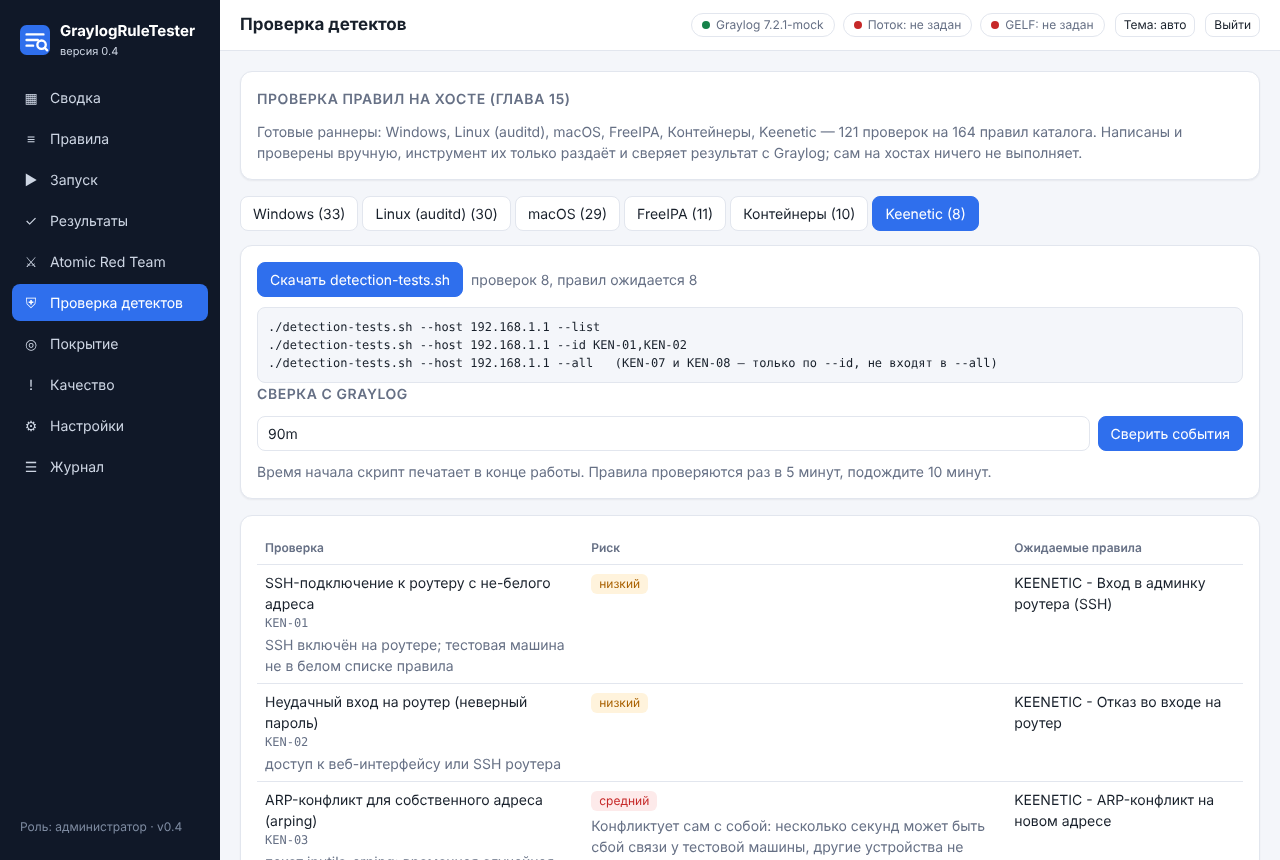
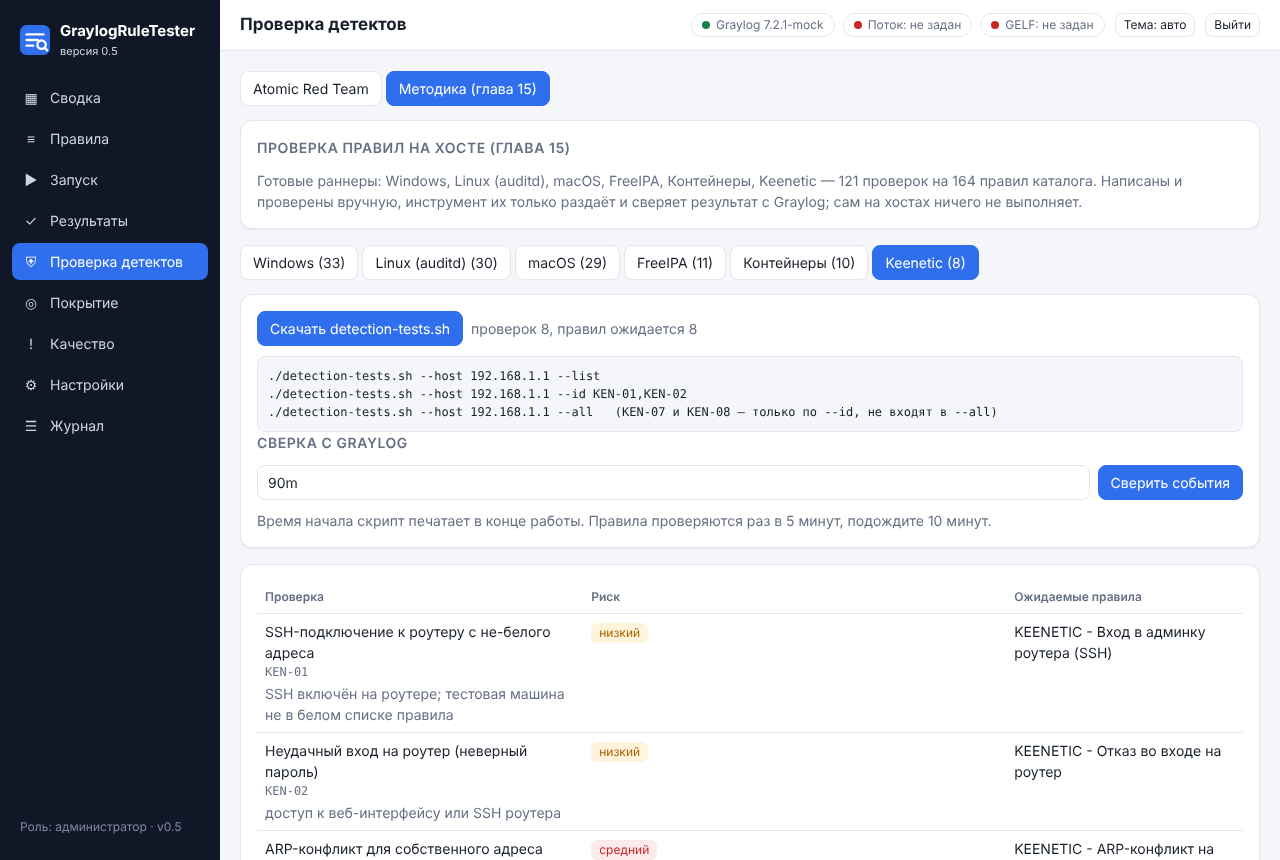
feat(rule-tester): объединить страницы Atomic Red Team и «Проверка детектов»
Версия 0.5. Обе страницы устроены почти одинаково (раннер по платформе
→ скачать → сверить с Graylog → таблица тестов) и их легко перепутать,
поэтому сделали одну страницу «Проверка детектов» с двумя вкладками
наверху: Atomic Red Team и Методика (глава 15).

- web_index.html: pArt()/pMethod() заменены одной pDetect() с общей
  логикой отрисовки (конфиг DETECT_KINDS задаёт источник API, раннер,
  режим запуска и мелкие различия вёрстки — колонку "Что делает" и
  формат риска у ART). В сайдбаре вместо двух пунктов остался один
  ("Проверка детектов"). Старые ссылки #/art и #/method по-прежнему
  открывают новую страницу с нужной вкладкой — route() транслирует их
  в #/detect?kind=...
- version.py, Containerfile: 0.4 -> 0.5.
- docs/16-rule-tester.md: разделы "Atomic Red Team" и "Проверка
  детектов (глава 15) через инструмент" объединены в один раздел
  "Проверка детектов: Atomic Red Team и методика (глава 15)",
  обновлён список пунктов меню и примечание про источник скриншотов.
- Скриншоты ART (16-art.png, 16-art-risk.png) пересняты на заглушке
  Graylog вместе с остальными (конвенция: было 5 исключений из
  рабочей лаборатории, стало 3) — реальной лаборатории для них больше
  нет смысла держать отдельно, раз страница общая с методикой главы 15,
  которая и так снимается на заглушке; 16-method.png и
  16-method-keenetic.png пересняты в новой вёрстке с вкладками сверху.

Офлайн-проверки: selftest (218/218 согласовано), ручной проход по
[…]

diff --git a/rule-tester/web_index.html b/rule-tester/web_index.html
@@ -72,8 +72,7 @@ details{border:1px solid var(--ln);border-radius:8px;padding:6px 10px;margin-bot
   <a data-p="rules"><span class="ico">≡</span>Правила</a>
   <a data-p="run"><span class="ico">▶</span>Запуск</a>
   <a data-p="results"><span class="ico">✓</span>Результаты<span class="pill hide" id="pillf"></span></a>
-  <a data-p="art"><span class="ico">⚔</span>Atomic Red Team</a>
-  <a data-p="method"><span class="ico">⛨</span>Проверка детектов</a>
+  <a data-p="detect"><span class="ico">⛨</span>Проверка детектов</a>
   <a data-p="coverage"><span class="ico">◎</span>Покрытие</a>
   <a data-p="quality"><span class="ico">!</span>Качество</a>
   <a data-p="settings"><span class="ico">⚙</span>Настройки</a>
@@ -122,12 +121,14 @@ function showLogin(){$('#app').classList.add('hide');$('#login').classList.remov
 $('#pwgo').onclick=async()=>{try{await api('/api/login',{login:$('#lgname').value,password:$('#pw').value});$('#login').classList.add('hide');boot()}catch(e){$('#pwerr').textContent=e.message}};
 $('#pw').onkeydown=e=>{if(e.key==='Enter')$('#pwgo').click()};
 $('#logout').onclick=async()=>{try{await api('/api/logout',{})}catch(e){}showLogin()};
-const PAGES={home:['Сводка',pHome],rules:['Правила',pRules],run:['Запуск',pRun],art:['Atomic Red Team',pArt],method:['Проверка детектов',pMethod],results:['Результаты',pResults],coverage:['Покрытие',pCoverage],quality:['Качество запросов',pQuality],settings:['Настройки',pSettings],audit:['Журнал действий',pAudit]};
+const PAGES={home:['Сводка',pHome],rules:['Правила',pRules],run:['Запуск',pRun],results:['Результаты',pResults],detect:['Проверка детектов',pDetect],coverage:['Покрытие',pCoverage],quality:['Качество запросов',pQuality],settings:['Настройки',pSettings],audit:['Журнал действий',pAudit]};
 let CUR='',TIMER=null;
-function route(){clearTimeout(TIMER);const[p,qs]=(location.hash.slice(2)||'home').split('?');const page=PAGES[p]?p:'home';CUR=page;
+function route(){clearTimeout(TIMER);const[rawp,qs]=(location.hash.slice(2)||'home').split('?');const sp=new URLSearchParams(qs||'');
+  let p=rawp;if(p==='art'||p==='method'){if(!sp.get('kind'))sp.set('kind',p);p='detect'} // старые ссылки #/art и #/method
+  const page=PAGES[p]?p:'home';CUR=page;
   document.querySelectorAll('aside a').forEach(a=>a.classList.toggle('on',a.dataset.p===page));$('#title').textContent=PAGES[page][0];
   const m=$('#main');m.textContent='';m.append(h('div',{class:'mut'},'Загрузка…'));
-  Promise.resolve(PAGES[page][1](new URLSearchParams(qs||''),m)).catch(e=>{if(e.message!=='auth'){m.textContent='';m.append(h('div',{class:'banner'},e.message))}})}
+  Promise.resolve(PAGES[page][1](sp,m)).catch(e=>{if(e.message!=='auth'){m.textContent='';m.append(h('div',{class:'banner'},e.message))}})}
 window.addEventListener('hashchange',route);
 document.querySelectorAll('aside a').forEach(a=>a.onclick=()=>{location.hash='#/'+a.dataset.p});
 async function chips(){try{const s=await api('/api/summary');const hh=s.health;const box=$('#chips');box.textContent='';
@@ -251,47 +252,44 @@ async function pRun(q,m){m.textContent='';const sum=await api('/api/summary');
     if(j.status==='идёт')TIMER=setTimeout(poll,1500);else{chips()}}
   poll()}
 
-/* ---------- Atomic Red Team ---------- */
-async function pArt(q,m){m.textContent='';const d=await api('/api/art');let os=q.get('os')||'linux';
-  const tabs=h('div',{class:'tabs'});const body=h('div');m.append(h('div',{class:'card'},h('h2',{},'Проверка правил тестами Atomic Red Team'),
+/* ---------- проверка детектов: Atomic Red Team + методика (глава 15) ---------- */
+const DETECT_KINDS={
+  art:{title:'Atomic Red Team',api:'/api/art',runner:'/api/art/runner',mode:'art',defOs:'linux',testWord:'тестов',testCol:'Тест'},
+  method:{title:'Методика (глава 15)',api:'/api/method',runner:'/api/method/runner',mode:'method',defOs:'windows',testWord:'проверок',testCol:'Проверка'}};
+async function pDetect(q,m){m.textContent='';let kind=DETECT_KINDS[q.get('kind')]?q.get('kind'):'method';const cfg=DETECT_KINDS[kind];
+  let os=q.get('os')||cfg.defOs;
+  const ktabs=h('div',{class:'tabs'});Object.entries(DETECT_KINDS).forEach(([k,c])=>ktabs.append(h('button',{class:kind===k?'on':'',onclick:()=>{location.hash='#/detect?kind='+k}},c.title)));
+  const intro=h('div',{class:'card'});const tabs=h('div',{class:'tabs'});const body=h('div');m.append(ktabs,intro,tabs,body);
+  const d=await api(cfg.api);
+  if(kind==='art')intro.append(h('h2',{},'Проверка правил тестами Atomic Red Team'),
     h('div',{class:'mut'},'Тесты Red Canary (MIT) подобраны вручную: только безопасные, с очисткой. Скрипт скачивается и запускается на тестовом хосте, '+
-    'эта страница ничего на хостах не выполняет. Через 10+ минут после теста вернитесь и сверьте: какие правила дали событие, какие нет.')),tabs,body);
+    'эта страница ничего на хостах не выполняет. Через 10+ минут после теста вернитесь и сверьте: какие правила дали событие, какие нет.'));
+  else{const names=Object.values(d).map(v=>v.name).join(', ');const nTests=Object.values(d).reduce((s,v)=>s+v.tests.length,0);const nRules=new Set(Object.values(d).flatMap(v=>v.rules)).size;
+    intro.append(h('h2',{},'Проверка правил на хосте (глава 15)'),
+      h('div',{class:'mut'},`Готовые раннеры: ${names} — ${nTests} проверок на ${nRules} правил каталога. Написаны и проверены вручную, `+
+      'инструмент их только раздаёт и сверяет результат с Graylog; сам на хостах ничего не выполняет.'))}
   function draw(){tabs.textContent='';Object.entries(d).forEach(([k,v])=>tabs.append(h('button',{class:os===k?'on':'',onclick:()=>{os=k;draw()}},v.name+' ('+v.tests.length+')')));
     body.textContent='';const v=d[os];
-    const dl=h('a',{class:'btn pri',href:'/api/art/runner?os='+os,download:v.file,style:'text-decoration:none'},'Скачать '+v.file);
-    const how=os==='windows'?'powershell -File '+v.file+'            (показать план)\npowershell -File '+v.file+' -Run       (выполнить, от администратора)':
-      'bash '+v.file+'            (показать план)\nsudo bash '+v.file+' --run   (выполнить)';
+    const dl=h('a',{class:'btn pri',href:cfg.runner+'?os='+os,download:v.file,style:'text-decoration:none'},'Скачать '+v.file);
+    const how=kind==='art'?(os==='windows'?'powershell -File '+v.file+'            (показать план)\npowershell -File '+v.file+' -Run       (выполнить, от администратора)':
+      'bash '+v.file+'            (показать план)\nsudo bash '+v.file+' --run   (выполнить)'):v.how;
     const since=h('input',{placeholder:'начало окна: 2026-11-01T20:30Z или 90m',style:'flex:1;min-width:240px',value:'90m'});
-    const go=h('button',{class:'btn pri',onclick:async()=>{try{await api('/api/run',{mode:'art',platform:os,since:since.value.trim()});location.hash='#/run'}catch(e){note(e.message)}}},'Сверить события');
+    const go=h('button',{class:'btn pri',onclick:async()=>{try{await api('/api/run',{mode:cfg.mode,platform:os,since:since.value.trim()});location.hash='#/run'}catch(e){note(e.message)}}},'Сверить события');
     if(!isAdmin())go.disabled=true;
-    body.append(h('div',{class:'card'},h('div',{class:'row'},dl,h('span',{class:'mut'},`тестов ${v.tests.length}, правил ожидается ${v.rules.length}`)),h('pre',{},how),
-      h('h2',{},'Сверка с Graylog'),h('div',{class:'row'},since,go),h('div',{class:'mut'},'Время начала скрипт печатает в конце работы (UTC). Правила проверяются раз в 5 минут, подождите 10 минут.')));
-    const t=h('table',{},h('tr',{},h('th',{},'Тест'),h('th',{class:'h'},'Что делает'),h('th',{class:'h'},'Риск'),h('th',{},'Ожидаемые правила')));
-    v.tests.forEach(x=>t.append(h('tr',{},h('td',{},x.name,h('div',{class:'mut mono'},x.id+(x.admin?' · админ':''))),h('td',{class:'h'},x.effect),
-      h('td',{class:'h'},h('span',{class:'badge '+(x.risk.startsWith('нет')?'b-ok':x.risk.startsWith('низкий')?'b-warn':'b-bad')},x.risk.split(':')[0]),h('div',{class:'mut',style:'margin-top:4px'},x.risk.split(':').slice(1).join(':').trim())),
-      h('td',{},...x.expected.map(r=>h('div',{},r))))));
-    body.append(h('div',{class:'card',style:'overflow:auto'},t))}
-  draw()}
-
-/* ---------- проверка детектов (глава 15) ---------- */
-async function pMethod(q,m){m.textContent='';const d=await api('/api/method');let os=q.get('os')||'windows';
-  const names=Object.values(d).map(v=>v.name).join(', ');const nTests=Object.values(d).reduce((s,v)=>s+v.tests.length,0);
-  const nRules=new Set(Object.values(d).flatMap(v=>v.rules)).size;
-  const tabs=h('div',{class:'tabs'});const body=h('div');m.append(h('div',{class:'card'},h('h2',{},'Проверка правил на хосте (глава 15)'),
-    h('div',{class:'mut'},`Готовые раннеры: ${names} — ${nTests} проверок на ${nRules} правил каталога. Написаны и проверены вручную, `+
-    'инструмент их только раздаёт и сверяет результат с Graylog; сам на хостах ничего не выполняет.')),tabs,body);
-  function draw(){tabs.textContent='';Object.entries(d).forEach(([k,v])=>tabs.append(h('button',{class:os===k?'on':'',onclick:()=>{os=k;draw()}},v.name+' ('+v.tests.length+')')));
-    body.textContent='';const v=d[os];
-    const dl=h('a',{class:'btn pri',href:'/api/method/runner?os='+os,download:v.file,style:'text-decoration:none'},'Скачать '+v.file);
-    const since=h('input',{placeholder:'начало окна: 2026-11-01T20:30Z или 90m',style:'flex:1;min-width:240px',value:'90m'});
-    const go=h('button',{class:'btn pri',onclick:async()=>{try{await api('/api/run',{mode:'method',platform:os,since:since.value.trim()});location.hash='#/run'}catch(e){note(e.message)}}},'Сверить события');
-    if(!isAdmin())go.disabled=true;
-    body.append(h('div',{class:'card'},h('div',{class:'row'},dl,h('span',{class:'mut'},`проверок ${v.tests.length}, правил ожидается ${v.rules.length}`)),h('pre',{},v.how),
-      h('h2',{},'Сверка с Graylog'),h('div',{class:'row'},since,go),h('div',{class:'mut'},'Время начала скрипт печатает в конце работы. Правила проверяются раз в 5 минут, подождите 10 минут.')));
-    const t=h('table',{},h('tr',{},h('th',{},'Проверка'),h('th',{class:'h'},'Риск'),h('th',{},'Ожидаемые правила')));
-    v.tests.forEach(x=>t.append(h('tr',{},h('td',{},x.name,h('div',{class:'mut mono'},x.id),x.needs?h('div',{class:'mut',style:'margin-top:2px'},x.needs):''),
-      h('td',{class:'h'},h('span',{class:'badge '+(x.risk==='нет'?'b-ok':x.risk==='низкий'?'b-warn':'b-bad')},x.risk),x.note?h('div',{class:'mut',style:'margin-top:4px'},x.note):''),
-      h('td',{},...x.rules.map(r=>h('div',{},r))))));
+    body.append(h('div',{class:'card'},h('div',{class:'row'},dl,h('span',{class:'mut'},`${cfg.testWord} ${v.tests.length}, правил ожидается ${v.rules.length}`)),h('pre',{},how),
+      h('h2',{},'Сверка с Graylog'),h('div',{class:'row'},since,go),
+      h('div',{class:'mut'},'Время начала скрипт печатает в конце работы'+(kind==='art'?' (UTC)':'')+'. Правила проверяются раз в 5 минут, подождите 10 минут.')));
+    const head=[h('th',{},cfg.testCol)];if(kind==='art')head.push(h('th',{class:'h'},'Что делает'));head.push(h('th',{class:'h'},'Риск'),h('th',{},'Ожидаемые правила'));
+    const t=h('table',{},h('tr',{},...head));
+    v.tests.forEach(x=>{const expected=kind==='art'?x.expected:x.rules;
+      const nameCell=kind==='art'?h('td',{},x.name,h('div',{class:'mut mono'},x.id+(x.admin?' · админ':''))):
+        h('td',{},x.name,h('div',{class:'mut mono'},x.id),x.needs?h('div',{class:'mut',style:'margin-top:2px'},x.needs):'');
+      const cells=[nameCell];if(kind==='art')cells.push(h('td',{class:'h'},x.effect));
+      cells.push(kind==='art'?h('td',{class:'h'},h('span',{class:'badge '+(x.risk.startsWith('нет')?'b-ok':x.risk.startsWith('низкий')?'b-warn':'b-bad')},x.risk.split(':')[0]),
+          h('div',{class:'mut',style:'margin-top:4px'},x.risk.split(':').slice(1).join(':').trim())):
+        h('td',{class:'h'},h('span',{class:'badge '+(x.risk==='нет'?'b-ok':x.risk==='низкий'?'b-warn':'b-bad')},x.risk),x.note?h('div',{class:'mut',style:'margin-top:4px'},x.note):''));
+      cells.push(h('td',{},...expected.map(r=>h('div',{},r))));
+      t.append(h('tr',{},...cells))});
     body.append(h('div',{class:'card',style:'overflow:auto'},t))}
   draw()}
 

diff --git a/rule-tester/version.py b/rule-tester/version.py
@@ -1,2 +1,2 @@
 NAME = "GraylogRuleTester"
-VERSION = "0.4"
+VERSION = "0.5"
